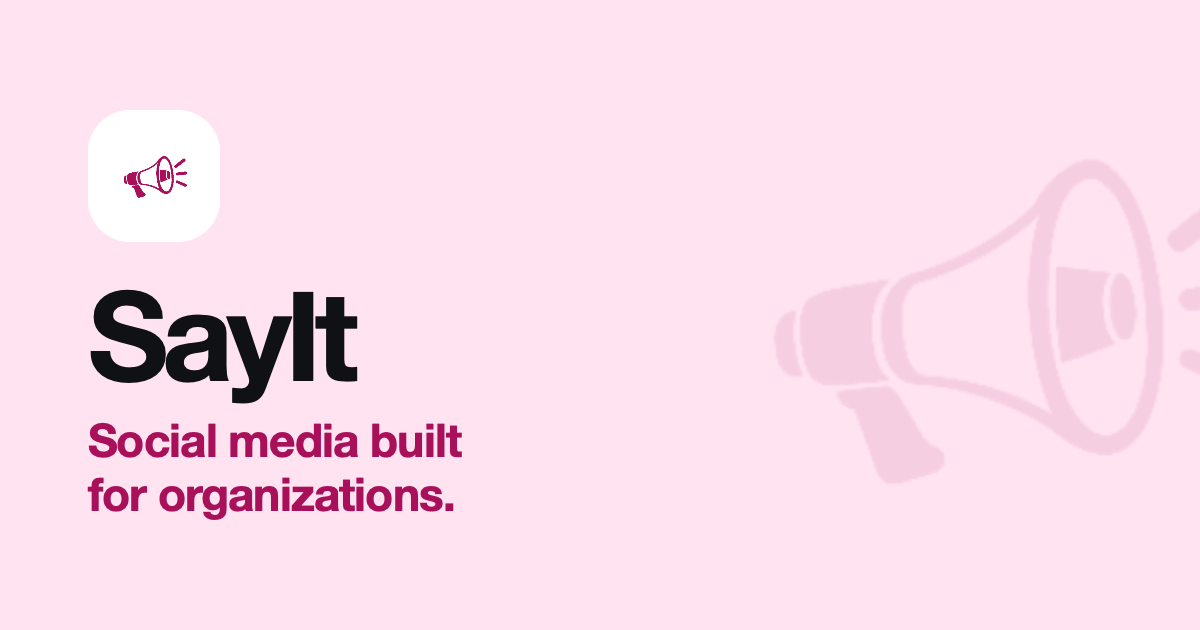
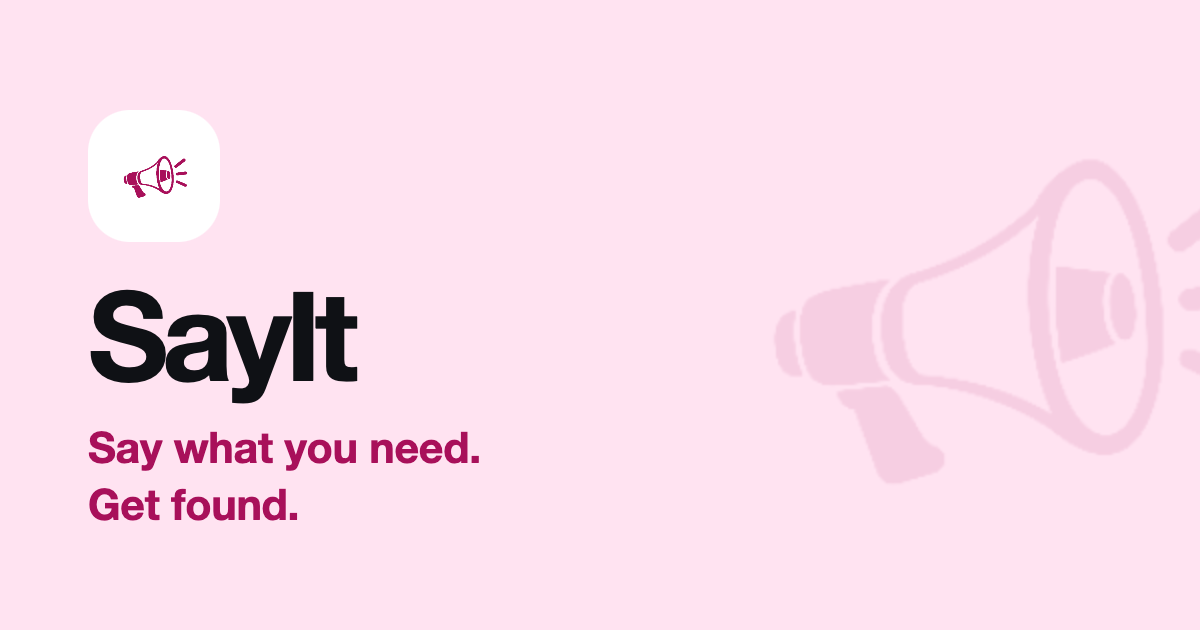
SayIt link preview: tagline matches the site, short description

Changed region(s): [[0.0617, 0.6635, 0.4008, 0.8444]]

diff --git a/src/index.html b/src/index.html
@@ -11,19 +11,19 @@
 
   <meta property="og:type" content="website">
   <meta property="og:title" content="SayIt — Say what you need. Get found.">
-  <meta property="og:description" content="Post what you're looking for or what you're selling. People tap I'm interested and you talk it over one-on-one. Free on the web, coming soon to iPhone.">
+  <meta property="og:description" content="Say what you need. Get found.">
   <meta property="og:url" content="https://sayit.taliferro.tech/">
   <meta property="og:site_name" content="Taliferro Tech">
 
   <meta name="twitter:card" content="summary_large_image">
   <meta name="twitter:title" content="SayIt — Say what you need. Get found.">
-  <meta name="twitter:description" content="Post what you're looking for or what you're selling. People tap I'm interested and you talk it over one-on-one. Free on the web, coming soon to iPhone.">
+  <meta name="twitter:description" content="Say what you need. Get found.">
   <meta property="og:image" content="https://sayit.taliferro.tech/assets/og-image.png">
   <meta property="og:image:width" content="1200">
   <meta property="og:image:height" content="630">
-  <meta property="og:image:alt" content="SayIt: Post what you're looking for or what you're selling. People tap I'm interested and you talk it over one-on-one. Free on the web, coming soon to iPhone">
+  <meta property="og:image:alt" content="SayIt: Say what you need. Get found">
   <meta name="twitter:image" content="https://sayit.taliferro.tech/assets/og-image.png">
-  <meta name="twitter:image:alt" content="SayIt: Post what you're looking for or what you're selling. People tap I'm interested and you talk it over one-on-one. Free on the web, coming soon to iPhone">
+  <meta name="twitter:image:alt" content="SayIt: Say what you need. Get found">
 
   <meta name="theme-color" content="#f5ead8">
   <!-- Set the theme before first paint: saved choice, else the system setting. Keep in sync with ThemeService. -->

diff --git a/public/index.html b/public/index.html
@@ -10,16 +10,16 @@
   <link rel="canonical" href="https://sayit.taliferro.tech/">
   <meta property="og:type" content="website">
   <meta property="og:title" content="SayIt — a community board for real businesses and the people who need them">
-  <meta property="og:description" content="Say it, get found, talk it over. No followers, no noise. Free.">
+  <meta property="og:description" content="Say what you need. Get found.">
   <meta property="og:url" content="https://sayit.taliferro.tech/">
   <meta property="og:site_name" content="Taliferro Tech">
   <meta name="twitter:card" content="summary_large_image">
   <meta property="og:image" content="https://sayit.taliferro.tech/assets/og-image.png">
   <meta property="og:image:width" content="1200">
   <meta property="og:image:height" content="630">
-  <meta property="og:image:alt" content="SayIt: Say it, get found, talk it over. No followers, no noise. Free">
+  <meta property="og:image:alt" content="SayIt: Say what you need. Get found">
   <meta name="twitter:image" content="https://sayit.taliferro.tech/assets/og-image.png">
-  <meta name="twitter:image:alt" content="SayIt: Say it, get found, talk it over. No followers, no noise. Free">
+  <meta name="twitter:image:alt" content="SayIt: Say what you need. Get found">
   <meta name="theme-color" content="#f5ead8">
   <!--
   SayIt's home page: plain HTML, no Angular. The app is app.html (firebase.json

diff --git a/public/about.html b/public/about.html
@@ -16,9 +16,9 @@
   <meta property="og:image" content="https://sayit.taliferro.tech/assets/og-image.png">
   <meta property="og:image:width" content="1200">
   <meta property="og:image:height" content="630">
-  <meta property="og:image:alt" content="SayIt: A free community board where people post what they need or what they're selling, and the people who can help reply one-on-one">
+  <meta property="og:image:alt" content="SayIt: Say what you need. Get found">
   <meta name="twitter:image" content="https://sayit.taliferro.tech/assets/og-image.png">
-  <meta name="twitter:image:alt" content="SayIt: A free community board where people post what they need or what they're selling, and the people who can help reply one-on-one">
+  <meta name="twitter:image:alt" content="SayIt: Say what you need. Get found">
   <meta name="theme-color" content="#f5ead8">
   <!-- Same theme choice as the app (localStorage "sayit-theme"), set before paint. -->
   <script>

diff --git a/public/terms.html b/public/terms.html
@@ -16,9 +16,9 @@
   <meta property="og:image" content="https://sayit.taliferro.tech/assets/og-image.png">
   <meta property="og:image:width" content="1200">
   <meta property="og:image:height" content="630">
-  <meta property="og:image:alt" content="SayIt: The terms for using SayIt, including zero tolerance for objectionable content or abusive users">
+  <meta property="og:image:alt" content="SayIt: Say what you need. Get found">
   <meta name="twitter:image" content="https://sayit.taliferro.tech/assets/og-image.png">
-  <meta name="twitter:image:alt" content="SayIt: The terms for using SayIt, including zero tolerance for objectionable content or abusive users">
+  <meta name="twitter:image:alt" content="SayIt: Say what you need. Get found">
   <meta name="theme-color" content="#f5ead8">
   <!-- Same theme choice as the app (localStorage "sayit-theme"), set before paint. -->
   <script>

diff --git a/public/help.html b/public/help.html
@@ -16,9 +16,9 @@
   <meta property="og:image" content="https://sayit.taliferro.tech/assets/og-image.png">
   <meta property="og:image:width" content="1200">
   <meta property="og:image:height" content="630">
-  <meta property="og:image:alt" content="SayIt: How to post, reply, find organizations, edit your profile and stay safe on SayIt">
+  <meta property="og:image:alt" content="SayIt: Say what you need. Get found">
   <meta name="twitter:image" content="https://sayit.taliferro.tech/assets/og-image.png">
-  <meta name="twitter:image:alt" content="SayIt: How to post, reply, find organizations, edit your profile and stay safe on SayIt">
+  <meta name="twitter:image:alt" content="SayIt: Say what you need. Get found">
   <meta name="theme-color" content="#f5ead8">
   <!-- Same theme choice as the app (localStorage "sayit-theme"), set before paint. -->
   <script>
